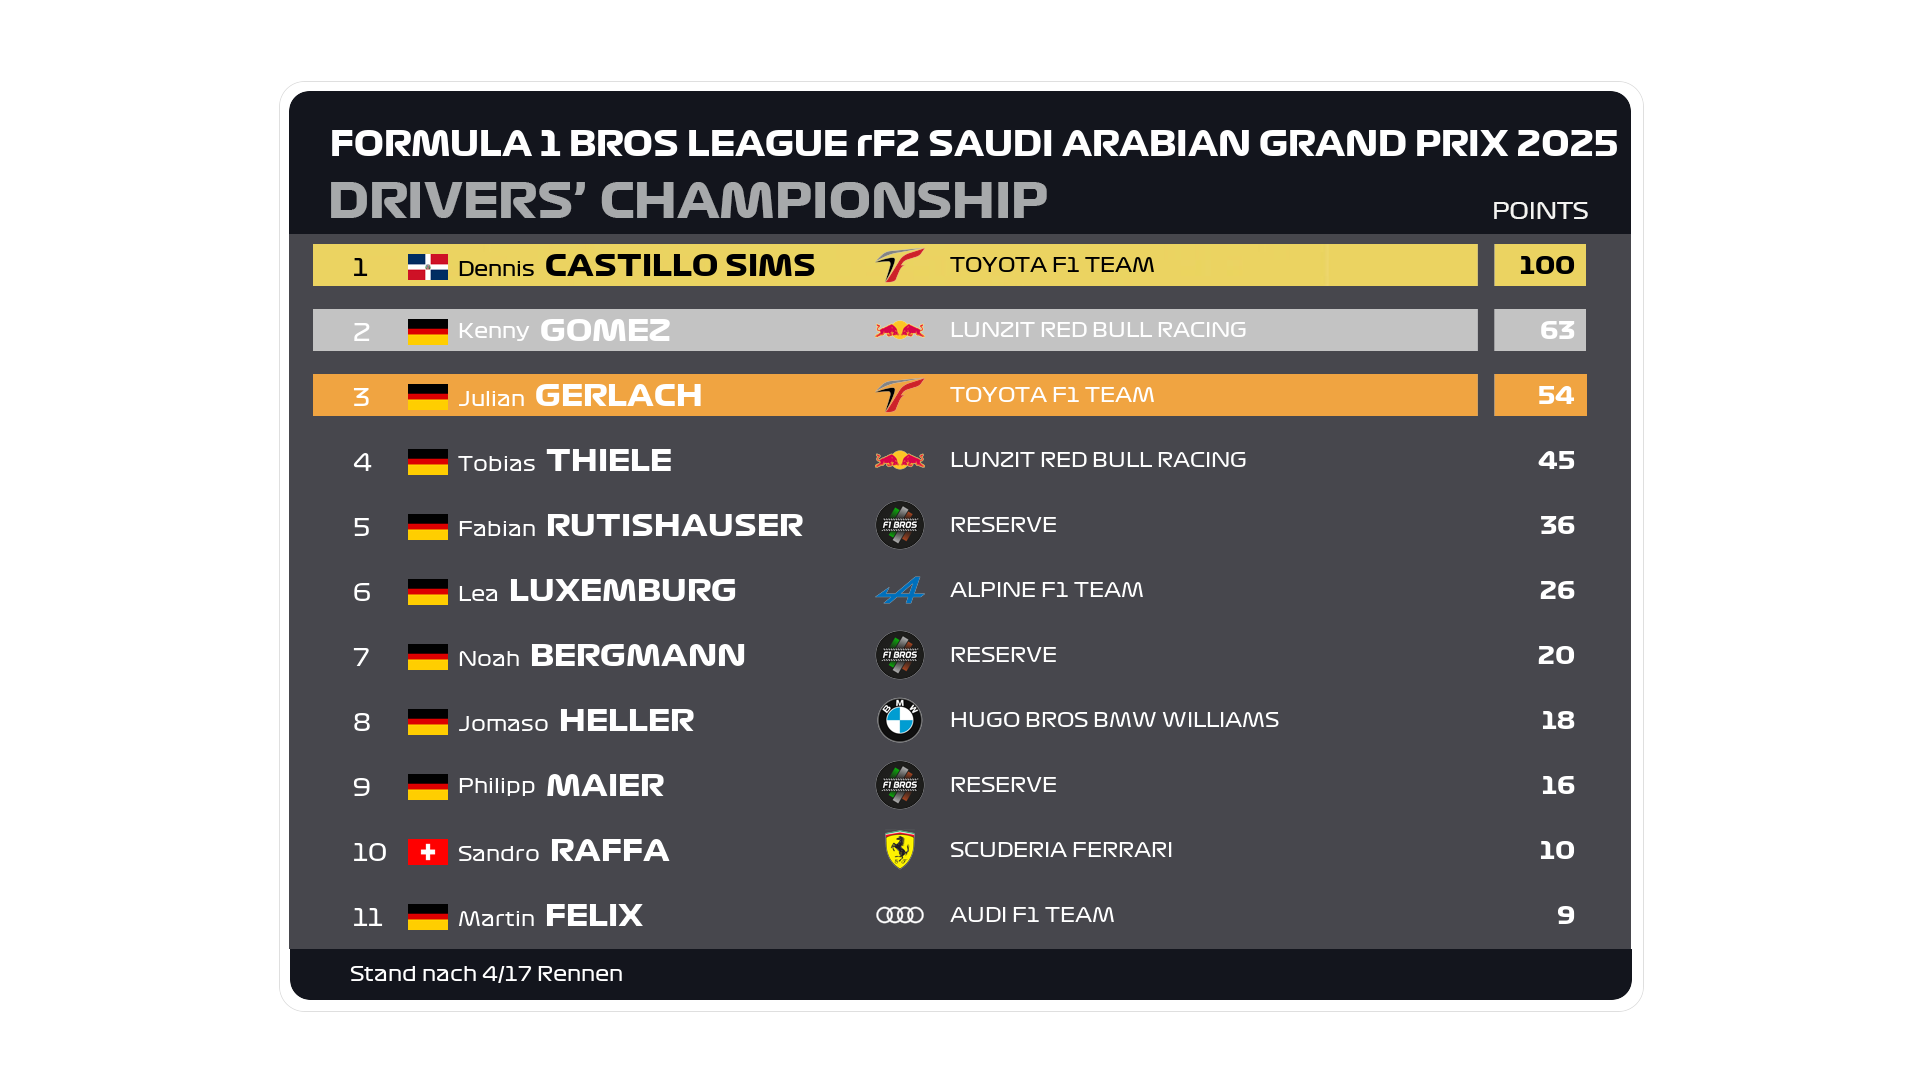
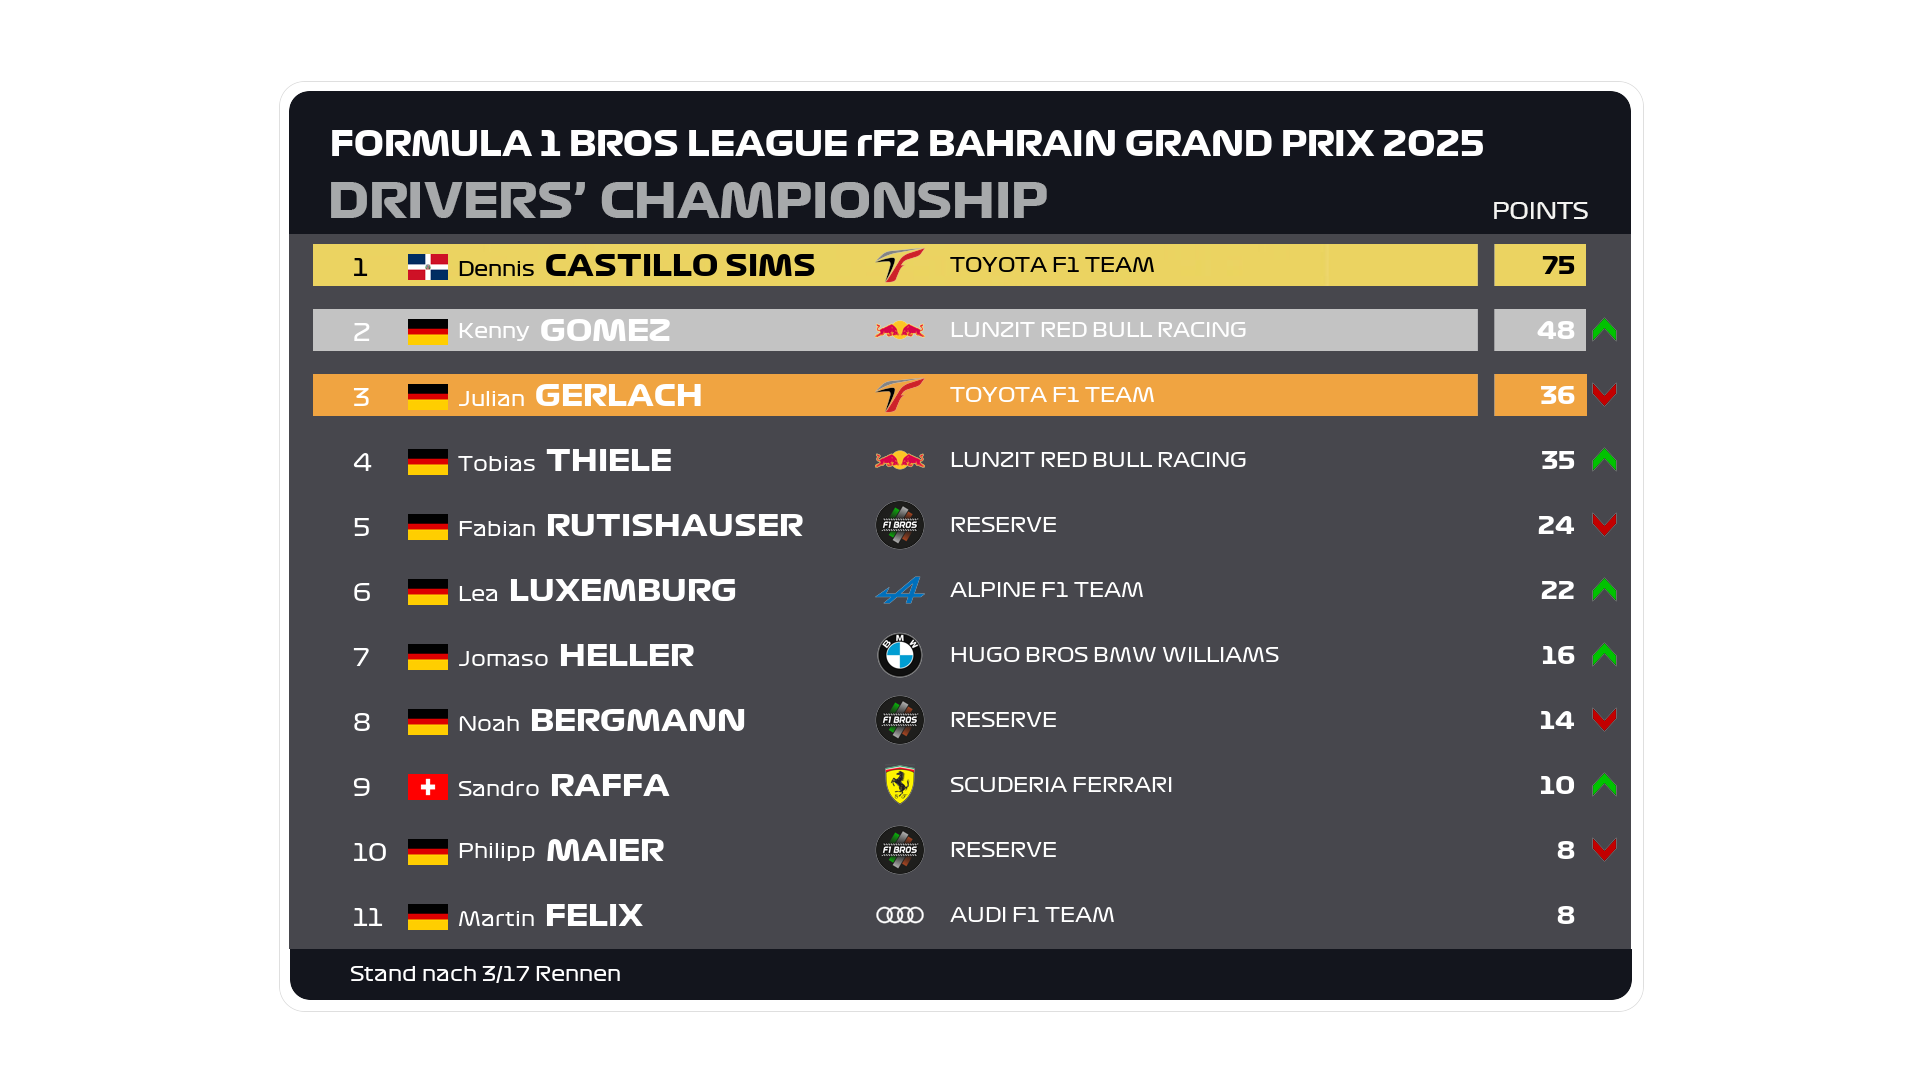
WM Zeigt jetzt mit an ob Positionen gewonnen oder verloren wurden in der WM

diff --git a/main.py b/main.py
@@ -92,6 +92,10 @@ winner_name_size = 42
 winner = Winner([])
 fastest_lap_driver = fastest_lap()
 
+arrow_scale = (25,25)
+driver_wm_arrow_x = 1592
+team_wm_arrow_x = 1594
+
 ###### Drivers Championship
 driver_wm_race_titel_position = (330, 130)
 driver_wm_offset_x = 96
@@ -823,15 +827,19 @@ def calculate_wm_rankings():
                     driver_standings.append([driver,  (0.01)  - (finish_position/10000)])
                     continue                        
 
-    ### Sort by points ###
-    driver_standings.sort(key=lambda x:x[1], reverse=True)
-    team_standings_sorted = (team_standings.copy())[:11]
-    team_standings_sorted.sort(key=lambda x: x[-1], reverse=True)
-    team_standings_sorted.append(team_standings[-1])
+        ### Sort by points ###
+        driver_standings.sort(key=lambda x:x[1], reverse=True)
+        team_standings_sorted = (team_standings.copy())[:11]
+        team_standings_sorted.sort(key=lambda x: x[-1], reverse=True)
+        team_standings_sorted.append(team_standings[-1])
 
-    if(race_number == len(files) - 1):
+        if(race_number == len(files) - 1):
+            driver_standings_last_race = driver_standings.copy()
+            team_standings_last_race = team_standings.copy()
+        
+    if(race_number == 1):
         driver_standings_last_race = driver_standings.copy()
-        team_standings_last_race = team_standings.copy()
+        team_standings_last_race = team_standings_sorted.copy()
 
     #print("\nFahrer WM Stand nach " + race_file + "\n" + "-------------------------------")                                                    
     #for driver in driver_standings:
@@ -876,9 +884,15 @@ def generate_drivers_championship(last_race_standings, driver_standings):
         
         relevant_drivers = driver_standings[i * 11:(i + 1) * 11]
 
+        #Positionspfeile
+        arrow_up = Image.open("./images/arrow_up.png").convert("RGBA")
+        arrow_down = Image.open("./images/arrow_down.png").convert("RGBA")
+        arrow_up= arrow_up.resize(arrow_scale)
+        arrow_down= arrow_down.resize(arrow_scale)
+        
         ### Fill Positions
         position = 0
-        for entry in relevant_drivers:
+        for entry in relevant_drivers:            
             #Text zu CAPS
             name = entry[0][0][0]            
             lastname = entry[0][0][1].upper()
@@ -890,7 +904,11 @@ def generate_drivers_championship(last_race_standings, driver_standings):
             # Draw the rest of row     
             bbox = draw.textbbox((-100, -100), name, font=regular)
             name_length = bbox[2] - bbox[0]
-                    
+
+            try:
+                last_race_index = last_race_standings.index(next(driver for driver in last_race_standings if driver[0][0] == entry[0][0]))                        
+            except StopIteration:
+                last_race_index = position + (i * 11)
             if(position == 0 and i == 0):
                 #Draw Position
                 draw.text((driver_wm_position_x, driver_wm_first_name_y + (position * y_offset)), str(position + 1), font=position_font, fill=(0, 0, 0, 255), anchor="lb")            
@@ -914,7 +932,14 @@ def generate_drivers_championship(last_race_standings, driver_standings):
                 if(entry[1] % 1) < 0.5:
                     draw.text((driver_wm_points_pos[0], driver_wm_points_pos[1] + (position * y_offset)), str(math.floor(entry[1])), font=pos_bold, fill=(0, 0, 0, 255), anchor="rm")
                 else:
-                    draw.text((driver_wm_points_pos[0], driver_wm_points_pos[1] + (position * y_offset)), str(math.ceil(entry[1])), font=pos_bold, fill=(0, 0, 0, 255), anchor="rm")                
+                    draw.text((driver_wm_points_pos[0], driver_wm_points_pos[1] + (position * y_offset)), str(math.ceil(entry[1])), font=pos_bold, fill=(0, 0, 0, 255), anchor="rm")   
+
+                if (last_race_index > 1):
+                    # Paste images onto the final image at specified positions
+                    final_image.paste(arrow_up, (driver_wm_arrow_x, driver_wm_first_row_lower - row_height + ((row_height - arrow_scale[1]) % 2) + (position * y_offset) + 7), arrow_up)
+                    draw = ImageDraw.Draw(final_image)
+                
+
             else:
                 #Draw Position
                 draw.text((driver_wm_position_x, driver_wm_first_name_y + (position * y_offset)), str(position + 1 + (i*11)), font=position_font, fill=(255, 255, 255, 255), anchor="lb")            
@@ -939,7 +964,15 @@ def generate_drivers_championship(last_race_standings, driver_standings):
                     draw.text((driver_wm_points_pos[0], driver_wm_points_pos[1] + (position * y_offset)), str(math.floor(entry[1])), font=pos_bold, fill=(255, 255, 255, 255), anchor="rm")
                 else:
                     draw.text((driver_wm_points_pos[0], driver_wm_points_pos[1] + (position * y_offset)), str(math.ceil(entry[1])), font=pos_bold, fill=(255, 255, 255, 255), anchor="rm")
-
+                #Pos Gained arrow
+                if (last_race_index > (position + (i*11))):
+                    # Paste images onto the final image at specified positions
+                    final_image.paste(arrow_up, (driver_wm_arrow_x, driver_wm_first_row_lower - row_height + ((row_height - arrow_scale[1]) % 2) + (position * y_offset) + 7), arrow_up)
+                    draw = ImageDraw.Draw(final_image)
+                elif (last_race_index < (position + (i*11))):
+                    # Paste images onto the final image at specified positions
+                    final_image.paste(arrow_down, (driver_wm_arrow_x, driver_wm_first_row_lower - row_height + ((row_height - arrow_scale[1]) % 2) + (position * y_offset) + 7), arrow_down)
+                    draw = ImageDraw.Draw(final_image)
             # Update position for the next name
             position += 1
 
@@ -965,7 +998,13 @@ def generate_constructor_championship(last_race_standings, team_standings):
     draw.text(team_wm_race_titel_position, name_rennen, font=race_titel, fill=(255, 255, 255, 255), anchor="lt")
     
     draw.text(team_wm_info_text_position, f"Stand nach {current_race_number}/17 Rennen", font=regular, fill=(255, 255, 255, 255), anchor="lm")
-    
+
+    #Positionspfeile
+    arrow_up = Image.open("./images/arrow_up.png").convert("RGBA")
+    arrow_down = Image.open("./images/arrow_down.png").convert("RGBA")
+    arrow_up= arrow_up.resize(arrow_scale)
+    arrow_down= arrow_down.resize(arrow_scale)
+
 
     ### Fill Positions
     position = 0
@@ -980,6 +1019,8 @@ def generate_constructor_championship(last_race_standings, team_standings):
         bbox = draw.textbbox((-100, -100), name, font=regular)
         name_length = bbox[2] - bbox[0]
                 
+        last_race_index = last_race_standings.index(next(entry for entry in last_race_standings if entry[0] == team[0]))   
+
         if(position == 0):
             #Draw Position
             draw.text((team_wm_position_x, team_wm_first_name_y + (position * y_offset)), str(position + 1), font=position_font, fill=(0, 0, 0, 255), anchor="lb")            
@@ -1002,6 +1043,12 @@ def generate_constructor_championship(last_race_standings, team_standings):
                 draw.text((team_wm_points_pos[0], team_wm_points_pos[1] + (position * y_offset)), str(math.floor(team[-1])), font=pos_bold, fill=(0, 0, 0, 255), anchor="rm")
             else:
                 draw.text((team_wm_points_pos[0], team_wm_points_pos[1] + (position * y_offset)), str(math.ceil(team[-1])), font=pos_bold, fill=(0, 0, 0, 255), anchor="rm")
+
+            #Position gained?
+            if (last_race_index > 1):
+                # Paste images onto the final image at specified positions
+                final_image.paste(arrow_up, (team_wm_arrow_x, team_wm_first_row_lower - row_height + ((row_height - arrow_scale[1]) % 2) + (position * y_offset) + 7), arrow_up)
+                draw = ImageDraw.Draw(final_image)
         else:
             #Draw Position
             draw.text((team_wm_position_x, team_wm_first_name_y + (position * y_offset)), str(position + 1), font=position_font, fill=(255, 255, 255, 255), anchor="lb")            
@@ -1024,6 +1071,15 @@ def generate_constructor_championship(last_race_standings, team_standings):
                 draw.text((team_wm_points_pos[0], team_wm_points_pos[1] + (position * y_offset)), str(math.floor(team[-1])), font=pos_bold, fill=(255, 255, 255, 255), anchor="rm")
             else:
                 draw.text((team_wm_points_pos[0], team_wm_points_pos[1] + (position * y_offset)), str(math.ceil(team[-1])), font=pos_bold, fill=(255, 255, 255, 255), anchor="rm")
+            #Pos Gained arrow
+                if (last_race_index > position):
+                    # Paste images onto the final image at specified positions
+                    final_image.paste(arrow_up, (team_wm_arrow_x, team_wm_first_row_lower - row_height + ((row_height - arrow_scale[1]) % 2) + (position * y_offset) + 7), arrow_up)
+                    draw = ImageDraw.Draw(final_image)
+                elif (last_race_index < position):
+                    # Paste images onto the final image at specified positions
+                    final_image.paste(arrow_down, (team_wm_arrow_x, team_wm_first_row_lower - row_height + ((row_height - arrow_scale[1]) % 2) + (position * y_offset) + 7), arrow_down)
+                    draw = ImageDraw.Draw(final_image)
 
         # Update position for the next name
         position += 1
